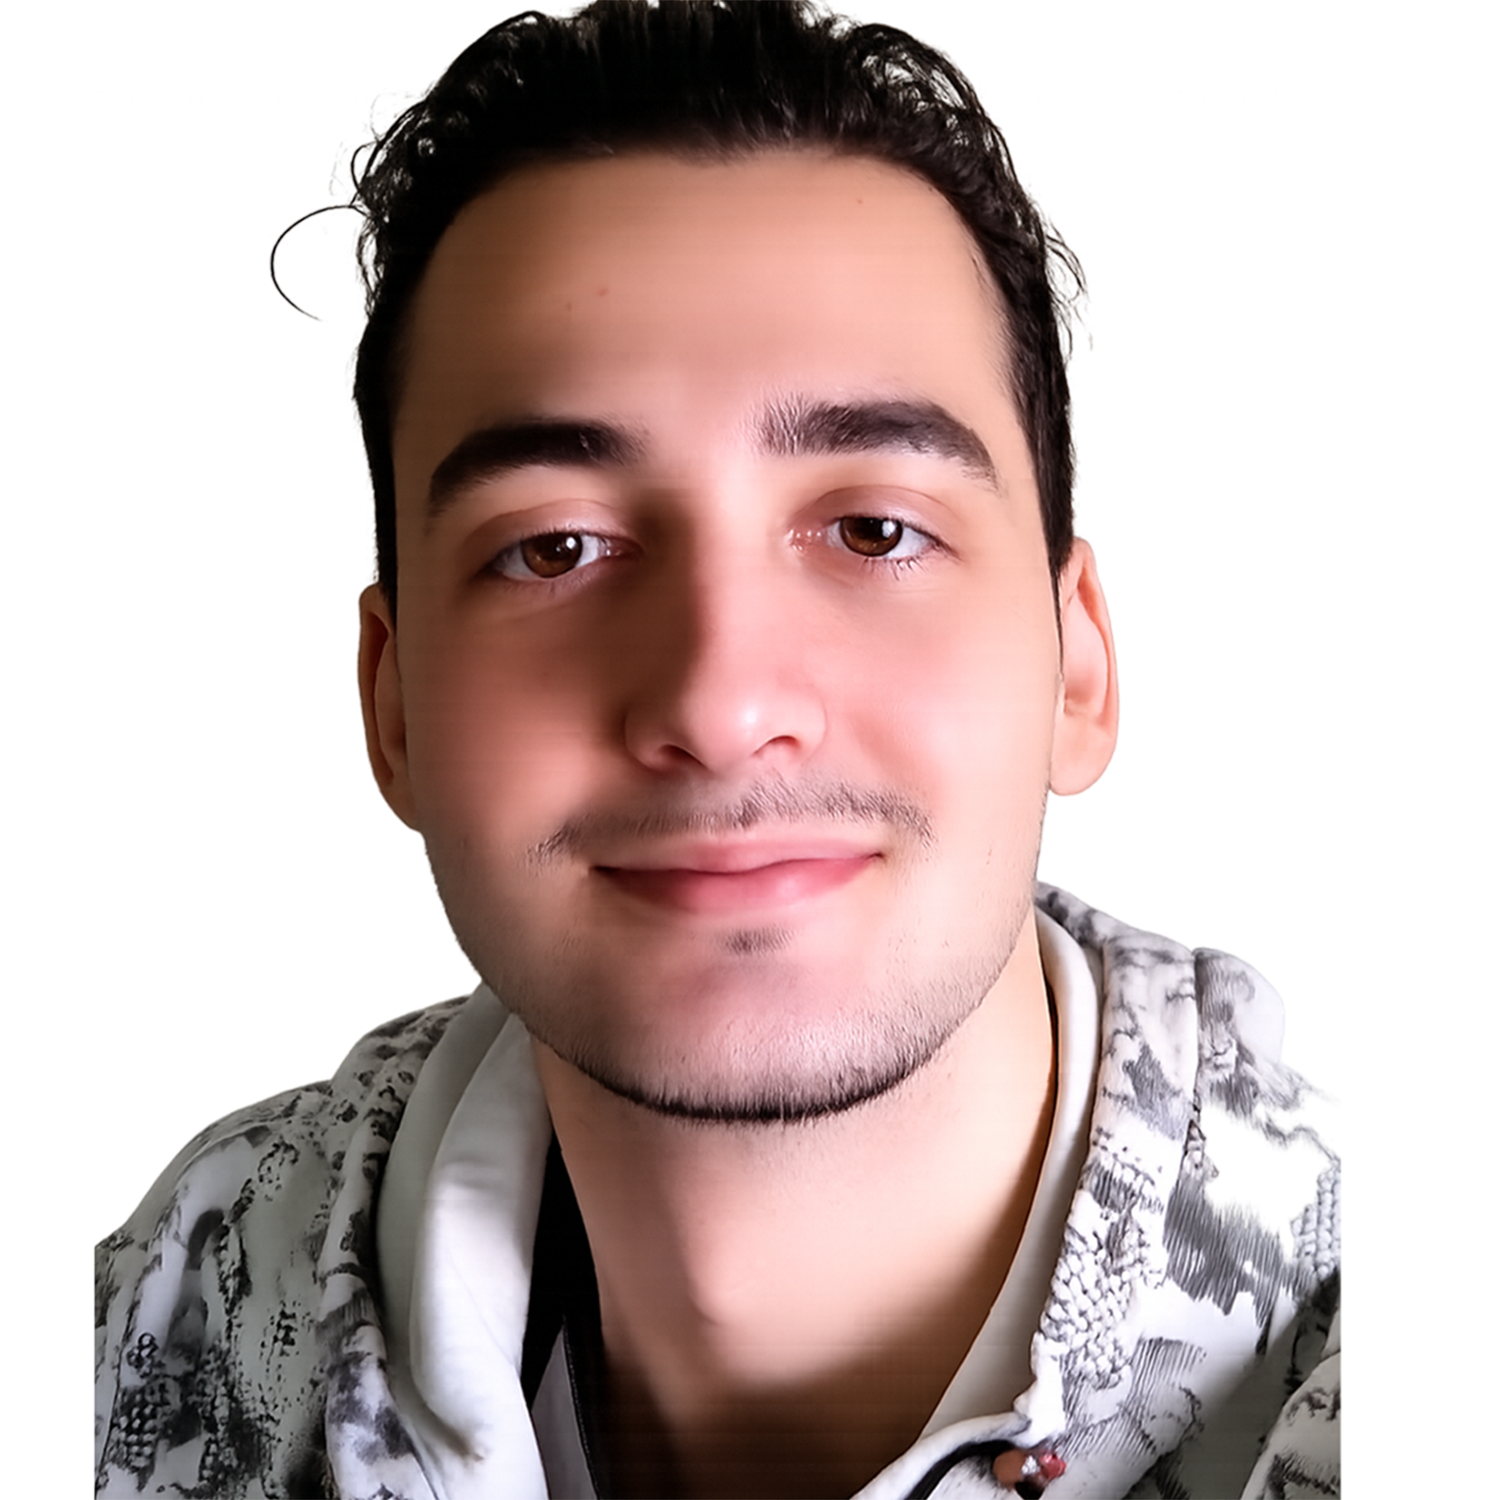
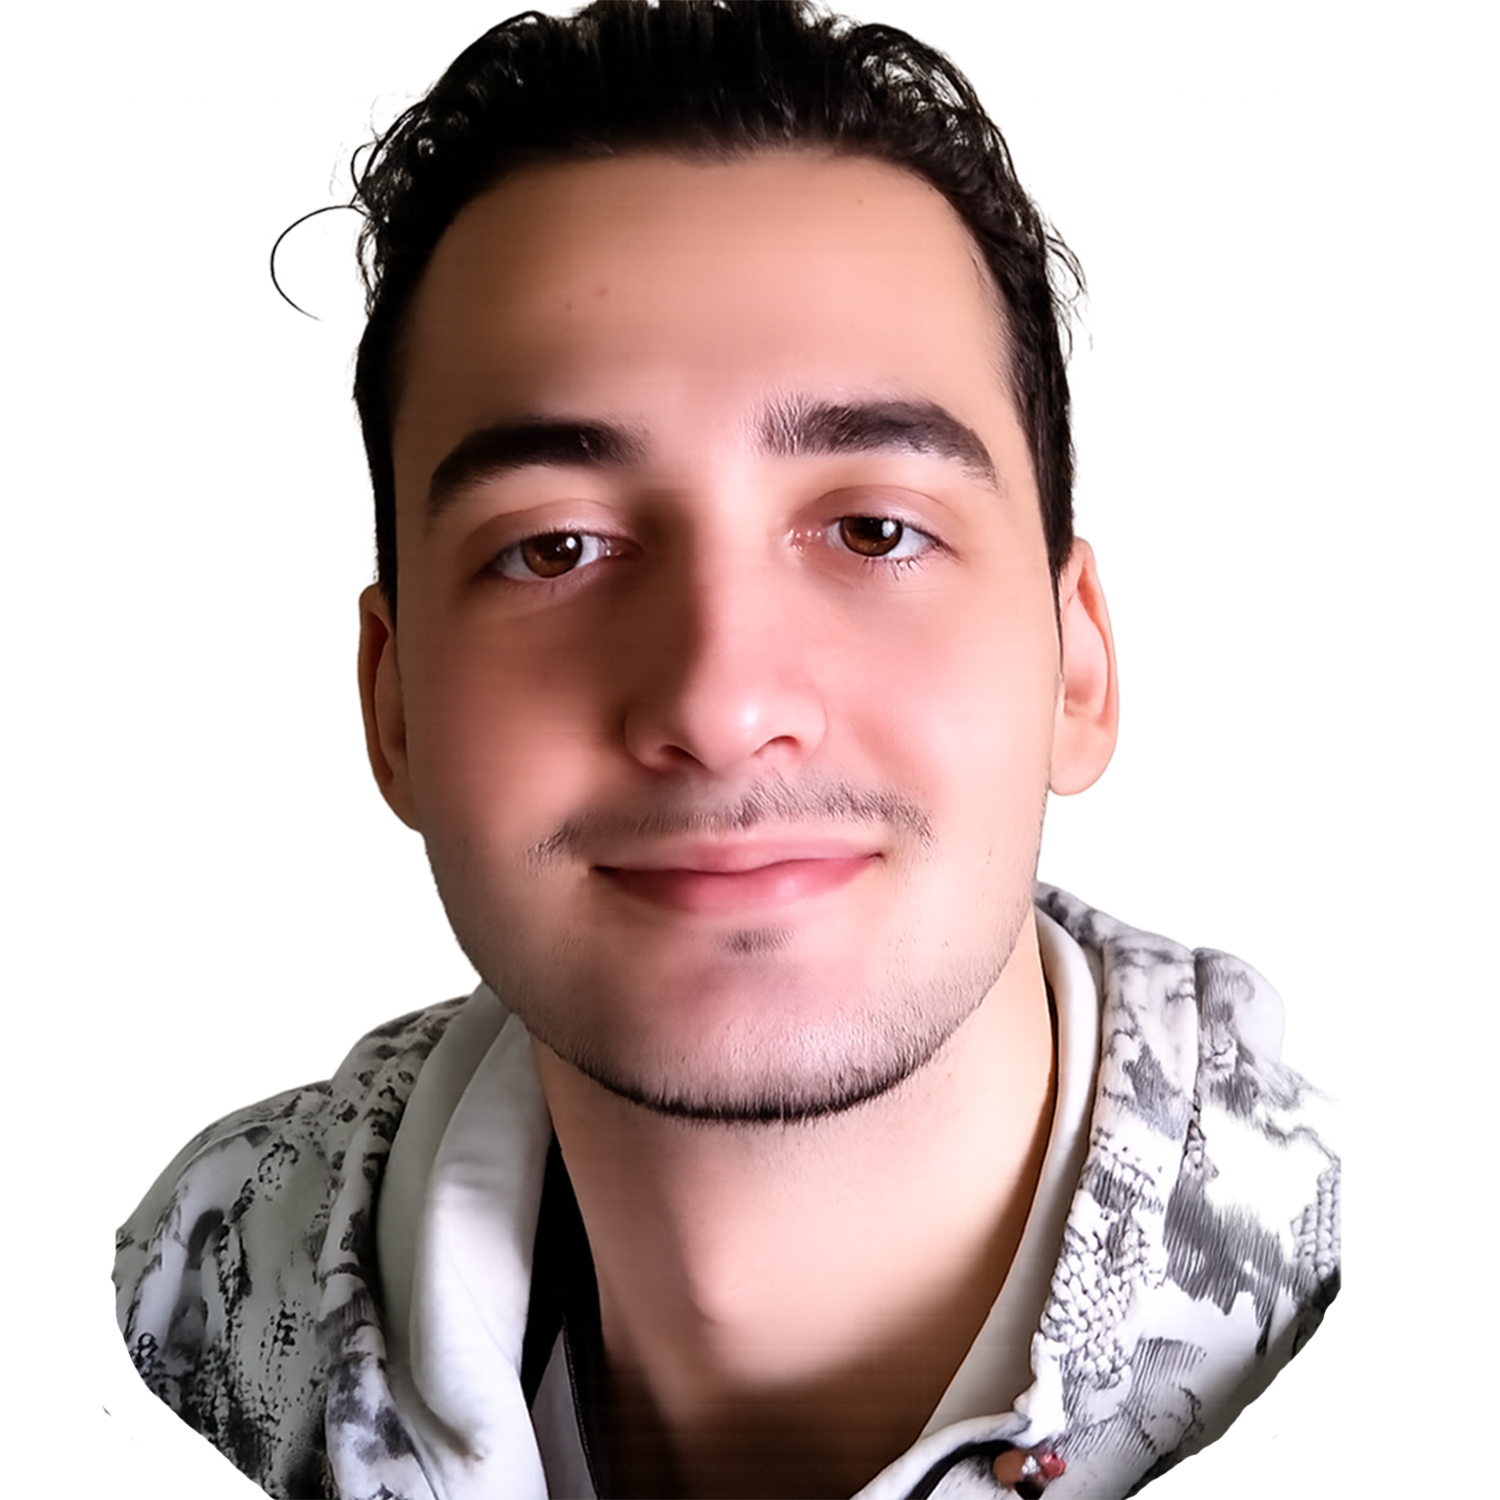
dada

Changed region(s): [[0.736, 0.8587, 0.92, 1.0], [0.0613, 0.828, 0.184, 1.0]]

diff --git a/styles.css b/styles.css
@@ -70,7 +70,7 @@ body {
   }
   .about-avatar-img {
   position: absolute;
- scale: 0.7;
+ scale: 0.1;
 }
 
   .hero {
